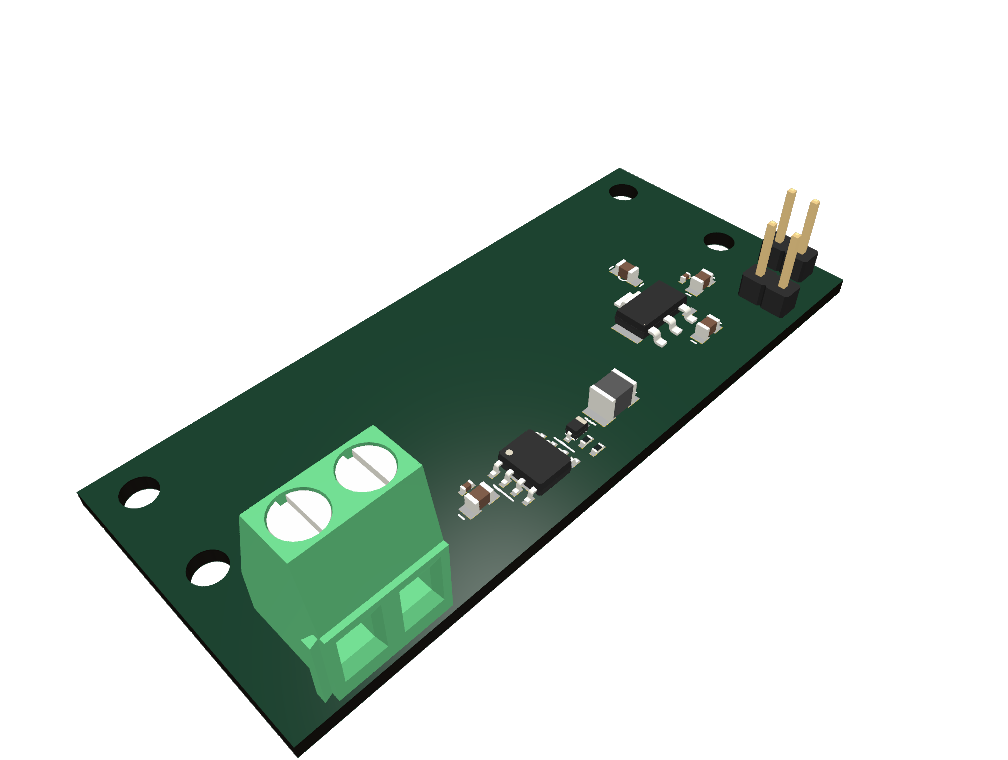
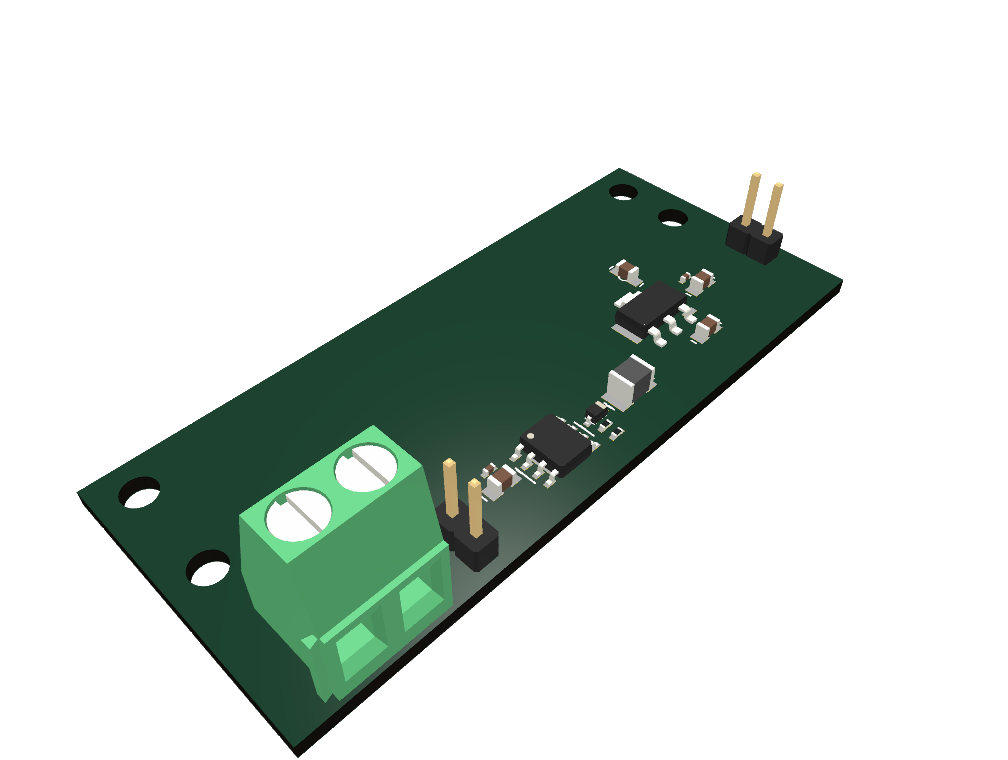
feat(placement_v2): true 1xN strips + reversed-row variant pick
Item 3 of the 2026-06-11 work queue:

- Sequence strips align by the SEQUENCE MEMBER's centroid, not the
  cell bbox center — cells have different internal support shapes, so
  bbox alignment left K1 2.7mm off the K2-K4 line. Members now form an
  exact row at uniform member pitch (nl-s-3c: all four relays at
  y=21.10, pitch 19.13).
- SequenceAlong.aligned (set by _array_sequences): Gate A check_
  sequences additionally asserts cross-axis centroid spread <= 0.5mm —
  'in a row' is now verified, not hoped for.
- pipeline builds a second floorplan with every aligned array
  REVERSED (monotonic-decreasing is Gate-A-legal; identical parts make
  ref order solver-chosen) and keeps the better plan by
  floorplan.plan_score — the same (countable violations, length)
  objective the reorder descends. On nl-s-3c the reversed row wins:
  J1 at rotation 180 reads FUEL..PREHEAT, and the K4..K1 row mirrors
  it exactly.

Result: ALL J1 fanout crossings cleared (was the largest cluster, ~8);
EE persona confirms 'relay contacts to J1 now map monotonically, no
crossings'. nl-s-3c Gate A 27 -> 23: 4 rail-cap attach (deferred
utilization work) + 3 bundle + 4 fanout at J14 (both pinouts FIXED
contracts — routing facts, pins_interchangeable belongs to the
board_intent schema, item 4) + 6 at J15 (GPIO pin assignment choice,
never auto-permuted) + 4 misc + 2 assoc strandings (macro placement).
All 5 trainers Gate A green, board files byte-identical to previous
[…]

Changed region(s): [[0.4306, 0.4539, 0.6766, 0.7566], [0.6766, 0.2118, 0.8304, 0.4237], [0.6458, 0.2724, 0.6766, 0.3026]]

diff --git a/src/kicad_pipeline/placement_v2/floorplan.py b/src/kicad_pipeline/placement_v2/floorplan.py
@@ -470,12 +470,31 @@ def _sequence_strips(
         )
         base_other = cursor_other + strip_thickness / 2
         cursor_other += strip_thickness + 2 * clearance
+        # Align by the SEQUENCE MEMBER's centroid, not the cell bbox
+        # center: cells have different internal support shapes, so bbox
+        # alignment left K1 2.7mm off the K2-K4 line (nl-s-3c,
+        # 2026-06-11) — the members must form a true 1xN line at
+        # uniform member pitch. The first cell's bbox anchors the row
+        # line and start; every member then lands exactly on it.
+        member_anchor: tuple[float, float] | None = None
         for i, cell in enumerate(ref_cells):
             x1, y1, x2, y2 = _center_offset(cell, strip_rot)
-            cx = pitch * i - (x1 + x2) / 2
-            cy = base_other - (y1 + y2) / 2
-            if not horizontal:
-                cx, cy = base_other - (x1 + x2) / 2, pitch * i - (y1 + y2) / 2
+            member = next(m for m in cell.members if m.ref == seq.refs[i])
+            mpt = transform_polygon(
+                (Point(member.x, member.y),), 0.0, 0.0, -float(strip_rot),
+            )[0]
+            if member_anchor is None:
+                cx = pitch * i - (x1 + x2) / 2
+                cy = base_other - (y1 + y2) / 2
+                if not horizontal:
+                    cx, cy = base_other - (x1 + x2) / 2, pitch * i - (y1 + y2) / 2
+                member_anchor = (mpt.x + cx, mpt.y + cy)
+            elif horizontal:
+                cx = member_anchor[0] + pitch * i - mpt.x
+                cy = member_anchor[1] - mpt.y
+            else:
+                cx = member_anchor[0] - mpt.x
+                cy = member_anchor[1] + pitch * i - mpt.y
             placed.append(PlacedCell(cell, cx, cy, strip_rot))
             used.add(cell.name)
     return placed, used, facing
@@ -796,6 +815,76 @@ def classify_cell_edge(
     return min(candidates, key=lambda e: (dists[e], e.value))
 
 
+def count_assoc_violations(
+    positions: Mapping[str, tuple[float, float, float]],
+    footprints: Mapping[str, Footprint],
+    assocs: tuple[GroupAssoc, ...],
+    board_width: float,
+    board_height: float,
+) -> int:
+    """How many GroupAssocs the given positions violate.
+
+    Mirrors Gate A's check_group_assocs exactly: the axis comes from
+    the connector's nearest edge measured by COURTYARD bbox (a deep-
+    bodied RJ45 flush north has its centroid nearer the east edge), and
+    the connector's courtyard along-INTERVAL must come within tolerance
+    of the partner-centroid hull.
+    """
+    count = 0
+    for assoc in assocs:
+        conn = positions.get(assoc.ref)
+        fp = footprints.get(assoc.ref)
+        if conn is None or fp is None:
+            continue
+        cb = polygon_bbox(courtyard_in_frame(fp, conn[0], conn[1], conn[2]))
+        dists = {
+            Edge.WEST: cb[0], Edge.EAST: board_width - cb[2],
+            Edge.NORTH: cb[1], Edge.SOUTH: board_height - cb[3],
+        }
+        nearest = min(sorted(Edge, key=lambda e: e.value), key=lambda e: dists[e])
+        horizontal = nearest in (Edge.NORTH, Edge.SOUTH)
+        vals = [
+            positions[r][0] if horizontal else positions[r][1]
+            for r in assoc.partner_refs if r in positions
+        ]
+        if not vals:
+            continue
+        conn_int = (cb[0], cb[2]) if horizontal else (cb[1], cb[3])
+        gap = max(0.0, min(vals) - conn_int[1], conn_int[0] - max(vals))
+        if gap > assoc.tolerance_mm:
+            count += 1
+    return count
+
+
+def plan_score(
+    plan: Floorplan,
+    footprints: Mapping[str, Footprint],
+    constraints: ConstraintSet,
+) -> tuple[int, float]:
+    """(Gate A countable violations, ratsnest length) for a whole plan.
+
+    The same objective :func:`reorder_edge_connectors` descends on;
+    used to pick between alternative plans (forward vs reversed array
+    strips) by what Gate A will actually count.
+    """
+    from kicad_pipeline.placement_v2.crossings import crossings_and_length
+
+    positions = {
+        m.ref: (m.x, m.y, m.rotation_deg)
+        for pc in plan.placed for m in pc.members_in_board()
+    }
+    crossings, length = crossings_and_length(
+        positions, footprints, constraints.fanouts, constraints.bundles,
+    )
+    return (
+        crossings + count_assoc_violations(
+            positions, footprints, constraints.group_assocs,
+            plan.board_width, plan.board_height,
+        ),
+        length,
+    )
+
+
 def _forefield_clear(
     moved: PlacedCell,
     edge: Edge,
@@ -899,42 +988,6 @@ def reorder_edge_connectors(
             None,
         )
 
-    def _assoc_violations(pos_map: dict[str, tuple[float, float, float]]) -> int:
-        """How many GroupAssocs the current positions violate.
-
-        Mirrors Gate A's check_group_assocs exactly: the axis comes
-        from the connector's nearest edge measured by COURTYARD bbox
-        (a deep-bodied RJ45 flush north has its centroid nearer the
-        east edge), the connector's courtyard along-INTERVAL must come
-        within tolerance of the partner-centroid hull.
-        """
-        count = 0
-        for assoc in constraints.group_assocs:
-            conn = pos_map.get(assoc.ref)
-            fp = footprints.get(assoc.ref)
-            if conn is None or fp is None:
-                continue
-            cb = polygon_bbox(courtyard_in_frame(fp, conn[0], conn[1], conn[2]))
-            dists = {
-                Edge.WEST: cb[0], Edge.EAST: bw - cb[2],
-                Edge.NORTH: cb[1], Edge.SOUTH: bh - cb[3],
-            }
-            nearest = min(sorted(Edge, key=lambda e: e.value), key=lambda e: dists[e])
-            horizontal = nearest in (Edge.NORTH, Edge.SOUTH)
-            vals = [
-                pos_map[r][0] if horizontal else pos_map[r][1]
-                for r in assoc.partner_refs if r in pos_map
-            ]
-            if not vals:
-                continue
-            conn_int = (cb[0], cb[2]) if horizontal else (cb[1], cb[3])
-            gap = max(
-                0.0, min(vals) - conn_int[1], conn_int[0] - max(vals),
-            )
-            if gap > assoc.tolerance_mm:
-                count += 1
-        return count
-
     def _score() -> tuple[int, float]:
         """(Gate A countable violations, ratsnest length) — both kinds
         of MAJOR violation weigh the same, exactly as Gate A counts."""
@@ -942,7 +995,12 @@ def reorder_edge_connectors(
         crossings, length = crossings_and_length(
             pos_map, footprints, constraints.fanouts, constraints.bundles,
         )
-        return (crossings + _assoc_violations(pos_map), length)
+        return (
+            crossings + count_assoc_violations(
+                pos_map, footprints, constraints.group_assocs, bw, bh,
+            ),
+            length,
+        )
 
     def _edge_of(pc: PlacedCell) -> Edge | None:
         explicit = next(

diff --git a/src/kicad_pipeline/placement_v2/pipeline.py b/src/kicad_pipeline/placement_v2/pipeline.py
@@ -40,8 +40,10 @@ from kicad_pipeline.placement_v2.certify import (
 from kicad_pipeline.placement_v2.compile import compile_constraints
 from kicad_pipeline.placement_v2.floorplan import (
     Floorplan,
+    GroupPlan,
     pack_board,
     pack_group,
+    plan_score,
     reorder_edge_connectors,
 )
 from kicad_pipeline.placement_v2.footprint_geom import (
@@ -49,7 +51,12 @@ from kicad_pipeline.placement_v2.footprint_geom import (
     pad_position_in_frame,
 )
 from kicad_pipeline.placement_v2.generators import CellGenerationError, generate_cell
-from kicad_pipeline.placement_v2.ir import PadRef, Severity, Violation
+from kicad_pipeline.placement_v2.ir import (
+    PadRef,
+    SequenceAlong,
+    Severity,
+    Violation,
+)
 from kicad_pipeline.placement_v2.ledger import (
     BuildLedger,
     StageRecord,
@@ -501,19 +508,23 @@ def run_placement_v2(
         ep.ref: ep.opening for ep in constraints.edge_pins
         if ep.opening is not None
     }
-    plans = tuple(
-        pack_group(
-            gname,
-            tuple(sorted(gcells, key=lambda c: c.name)),
-            sequences=constraints.sequences,
-            edge_pinned=edge_pinned,
-            openings=openings,
+
+    def _pack_groups(sequences: tuple[SequenceAlong, ...]) -> tuple[GroupPlan, ...]:
+        return tuple(
+            pack_group(
+                gname,
+                tuple(sorted(gcells, key=lambda c: c.name)),
+                sequences=sequences,
+                edge_pinned=edge_pinned,
+                openings=openings,
+            )
+            for gname, gcells in sorted(by_group.items())
+        ) + tuple(
+            pack_group(f"conn:{ref}", (cell,))
+            for ref, cell in sorted(lifted, key=lambda rc: rc[0])
         )
-        for gname, gcells in sorted(by_group.items())
-    ) + tuple(
-        pack_group(f"conn:{ref}", (cell,))
-        for ref, cell in sorted(lifted, key=lambda rc: rc[0])
-    )
+
+    plans = _pack_groups(constraints.sequences)
     # Connector opening direction: lets the edge snap ROTATE each
     # lifted cell so its opening faces outward (Gate A face_out).
     # The CALIBRATED part-rule opening wins; the courtyard-bulge proxy
@@ -536,10 +547,10 @@ def run_placement_v2(
         c, s = math.cos(rad), math.sin(rad)
         body_dirs[f"group:conn:{ref}"] = (ox * c - oy * s, ox * s + oy * c)
     obstacles = tuple(_obstacle_cell(n, poly) for n, poly in reserved_zones)
-    plan = None
-    try:
-        plan = pack_board(
-            plans, constraints,
+
+    def _build_plan(group_plans: tuple[GroupPlan, ...]) -> Floorplan:
+        built = pack_board(
+            group_plans, constraints,
             board_width=board_width_mm, board_height=board_height_mm,
             obstacles=obstacles,
             body_dirs=body_dirs,
@@ -548,14 +559,44 @@ def run_placement_v2(
         # overlaps push the INTERIOR groups, never a connector off
         # its edge.
         pinned_groups = frozenset(
-            f"group:{p.name}" for p in plans
+            f"group:{p.name}" for p in group_plans
             if p.edge_facing is not None or p.name.startswith("conn:")
         ) | frozenset(o.cell.name for o in obstacles)
-        plan = legalize(plan, pinned=pinned_groups)
+        built = legalize(built, pinned=pinned_groups)
         # The board owner's method, made deterministic: reorder same-
         # edge connectors to remove avoidable ratsnest crossings (the
         # same counter Gate A scores). Council first-action 2026-06-11.
-        plan = reorder_edge_connectors(plan, footprints, constraints)
+        return reorder_edge_connectors(built, footprints, constraints)
+
+    plan = None
+    try:
+        plan = _build_plan(plans)
+        # An ALIGNED array's ref order is solver-chosen (identical
+        # parts, ref-sort is arbitrary) and Gate A accepts monotonic in
+        # EITHER direction — so the REVERSED row is a legal second
+        # candidate. It is the fix when a shared terminal's fixed pin
+        # order runs opposite the row (J1 at rotation 180 reads
+        # FUEL..PREHEAT while K1-K4 read PREHEAT..FUEL — every attach
+        # line crossed; nl-s-3c 2026-06-11). Both variants are built
+        # and the better plan by Gate A countable violations wins.
+        reversed_seqs = tuple(
+            SequenceAlong(
+                axis=s.axis, refs=tuple(reversed(s.refs)),
+                pitch_mm=s.pitch_mm, max_span_mm=s.max_span_mm,
+                aligned=s.aligned, source=s.source,
+            ) if s.aligned and len(s.refs) >= 2 else s
+            for s in constraints.sequences
+        )
+        if reversed_seqs != constraints.sequences:
+            try:
+                plan_rev = _build_plan(_pack_groups(reversed_seqs))
+            except Exception:
+                plan_rev = None
+            if plan_rev is not None and plan_score(
+                plan_rev, footprints, constraints,
+            ) < plan_score(plan, footprints, constraints):
+                _log.info("v2: reversed array-strip variant wins")
+                plan = plan_rev
     except LegalizationError as exc:
         log_.add("floorplan", False, ("pack_board", "legalize"),
                  exc.violations, req_hash, "")

diff --git a/src/kicad_pipeline/placement_v2/verifier_rules.py b/src/kicad_pipeline/placement_v2/verifier_rules.py
@@ -43,6 +43,8 @@ if TYPE_CHECKING:
 
 #: Tolerance when checking a SequenceAlong's fixed pitch.
 PITCH_TOL_MM = 0.1
+#: Cross-axis tolerance for ``aligned`` sequences (true 1xN rows).
+ALIGN_TOL_MM = 0.5
 #: Tolerance when matching a derived keepout bbox to a board keepout zone.
 KEEPOUT_BBOX_TOL_MM = 1.0
 
@@ -223,6 +225,7 @@ def check_sequences(
     out: list[Violation] = []
     for seq in sequences:
         coords: list[float] = []
+        cross: list[float] = []
         missing = False
         for ref in seq.refs:
             fp = pcb.get_footprint(ref)
@@ -232,8 +235,17 @@ def check_sequences(
                 continue
             cx, cy = origin_to_centroid(fp, fp.position.x, fp.position.y, fp.rotation)
             coords.append(cx if seq.axis is Axis.HORIZONTAL else cy)
+            cross.append(cy if seq.axis is Axis.HORIZONTAL else cx)
         if missing or len(coords) < 2:
             continue
+        if seq.aligned:
+            spread = max(cross) - min(cross)
+            if spread > ALIGN_TOL_MM:
+                out.append(Violation(
+                    repr(seq), seq.refs, Severity.MAJOR, spread, ALIGN_TOL_MM,
+                    f"refs {seq.refs} deviate {spread:.3f}mm from a straight "
+                    f"row across the {seq.axis.value} axis",
+                ))
         deltas = [b - a for a, b in pairwise(coords)]
         increasing = all(d > _EPS for d in deltas)
         decreasing = all(d < -_EPS for d in deltas)

diff --git a/src/kicad_pipeline/placement_v2/ir.py b/src/kicad_pipeline/placement_v2/ir.py
@@ -94,12 +94,16 @@ class SequenceAlong:
     Verified by checking the relevant coordinate of each ref is strictly
     monotonic in sequence order. ``pitch_mm`` of ``None`` means spacing
     is free; a value pins members to a fixed pitch (relay/ADC arrays).
+    ``aligned`` additionally requires the members' CROSS-axis centroids
+    to form a line (a relay bank is a true 1xN row, not just ordered —
+    K1 sat 2.7mm off the K2-K4 line, nl-s-3c 2026-06-11).
     """
 
     axis: Axis
     refs: tuple[str, ...]
     pitch_mm: float | None = None
     max_span_mm: float | None = None  # whole chain must fit in this span
+    aligned: bool = False
     source: ConstraintSource = ConstraintSource.NETLIST
 
 

diff --git a/src/kicad_pipeline/placement_v2/compile.py b/src/kicad_pipeline/placement_v2/compile.py
@@ -432,7 +432,9 @@ def _array_sequences(idx: _Index) -> list[SequenceAlong]:
         for key in sorted(kinds):
             refs = sorted(kinds[key], key=_ref_sort_key)
             if len(refs) >= minimum:
-                out.append(SequenceAlong(axis=Axis.HORIZONTAL, refs=tuple(refs)))
+                out.append(SequenceAlong(
+                    axis=Axis.HORIZONTAL, refs=tuple(refs), aligned=True,
+                ))
     return out
 
 
